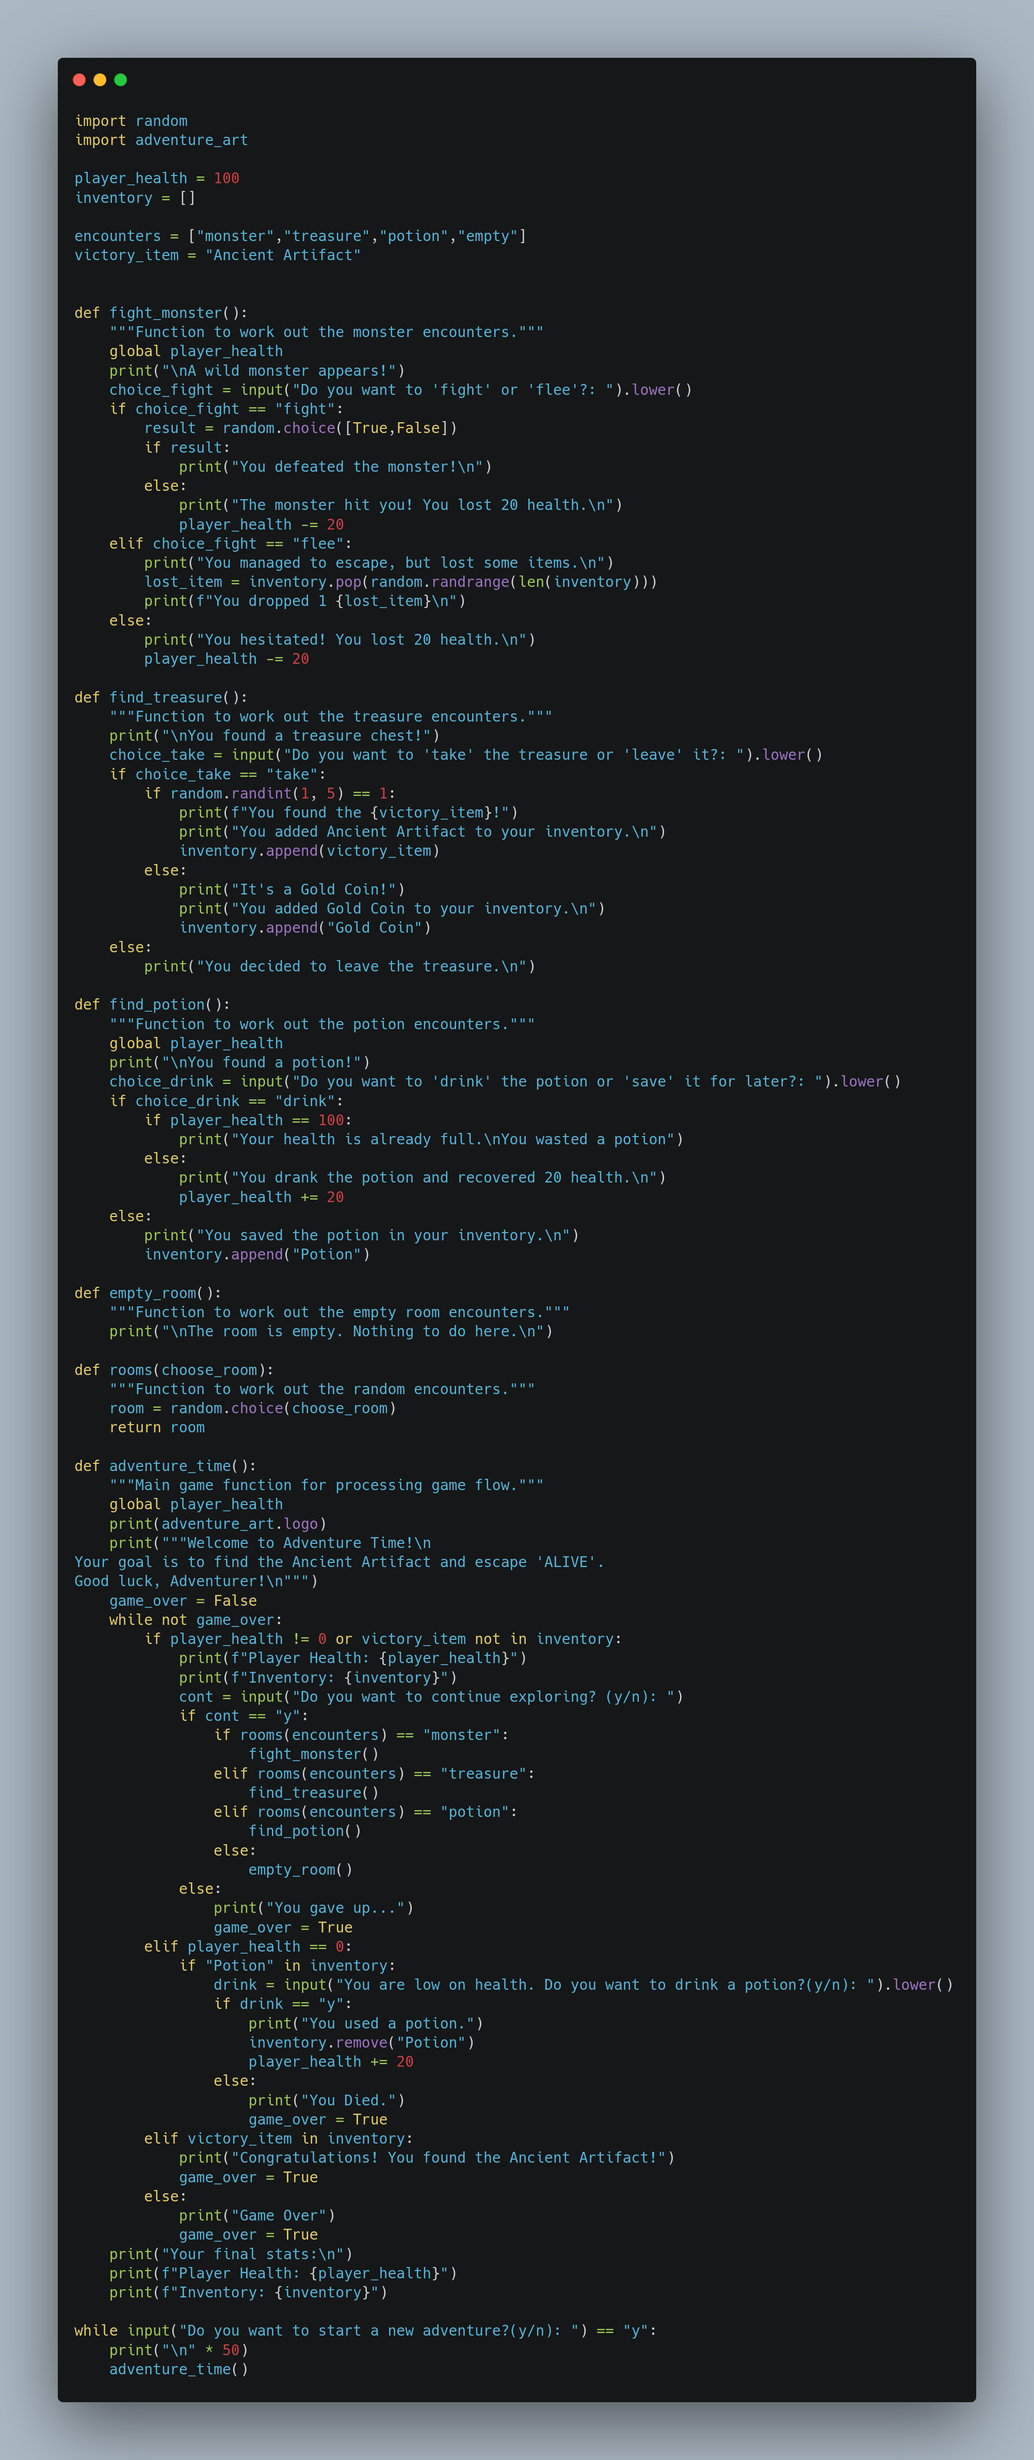
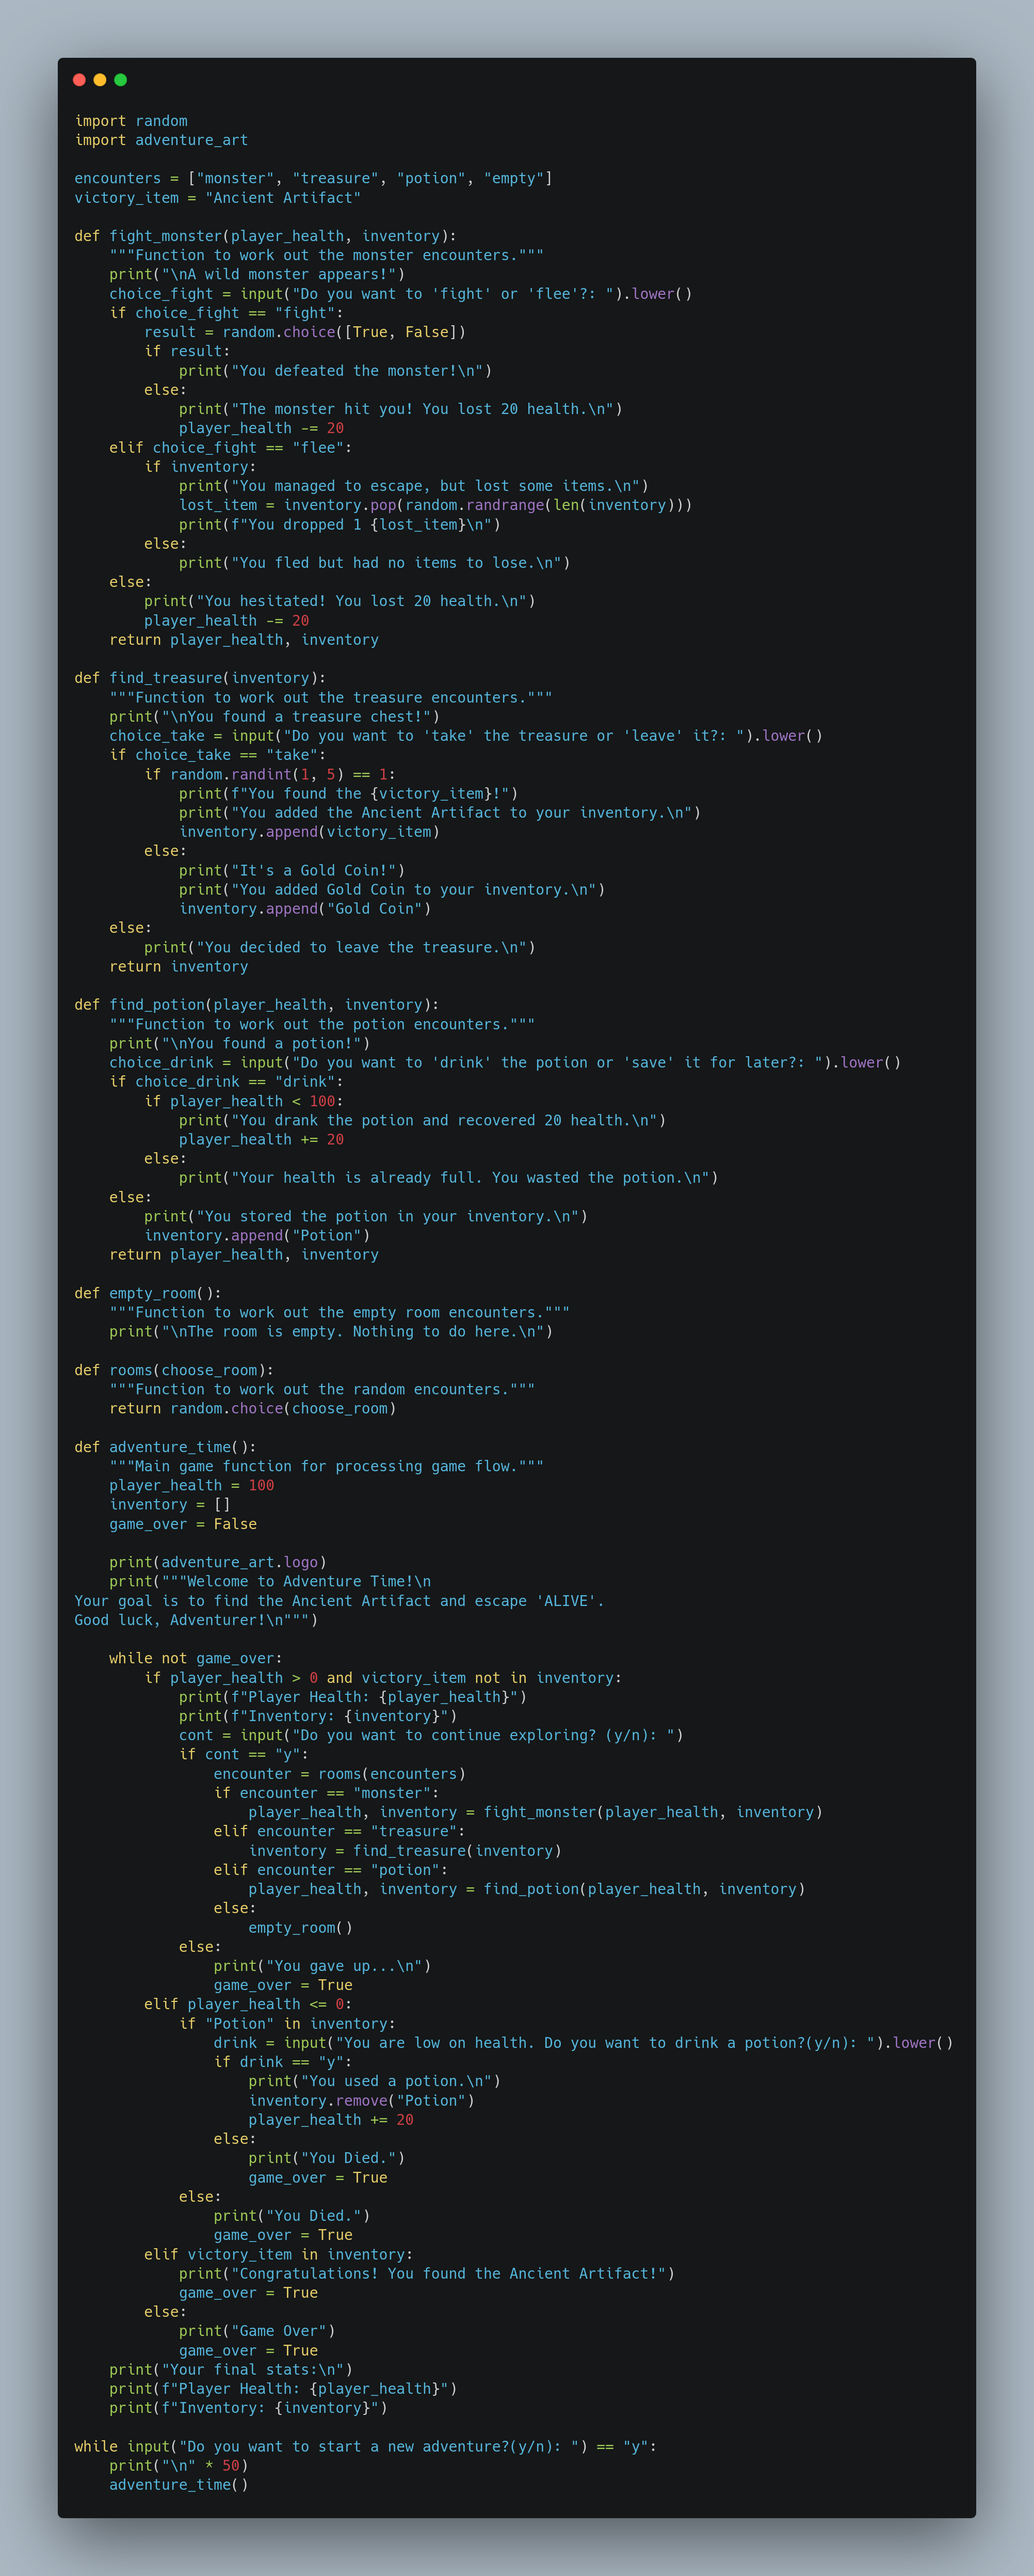
Progress Update...

Changed region(s): [[0.0619, 0.0311, 0.6497, 0.9627], [0.495, 0.3416, 0.5259, 0.3726]]

diff --git a/Projects/Day 11/11.1_Adventure_Project.py b/Projects/Day 11/11.1_Adventure_Project.py
@@ -1,41 +1,40 @@
 import random
 import adventure_art
 
-player_health = 100
-inventory = []
-
-encounters = ["monster","treasure","potion","empty"]
+encounters = ["monster", "treasure", "potion", "empty"]
 victory_item = "Ancient Artifact"
 
-
-def fight_monster():
+def fight_monster(player_health, inventory):
     """Function to work out the monster encounters."""
-    global player_health
     print("\nA wild monster appears!")
     choice_fight = input("Do you want to 'fight' or 'flee'?: ").lower()
     if choice_fight == "fight":
-        result = random.choice([True,False])
+        result = random.choice([True, False])
         if result:
             print("You defeated the monster!\n")
         else:
             print("The monster hit you! You lost 20 health.\n")
             player_health -= 20
     elif choice_fight == "flee":
-        print("You managed to escape, but lost some items.\n")
-        lost_item = inventory.pop(random.randrange(len(inventory)))
-        print(f"You dropped 1 {lost_item}\n")
+        if inventory:
+            print("You managed to escape, but lost some items.\n")
+            lost_item = inventory.pop(random.randrange(len(inventory)))
+            print(f"You dropped 1 {lost_item}\n")
+        else:
+            print("You fled but had no items to lose.\n")
     else:
         print("You hesitated! You lost 20 health.\n")
         player_health -= 20
+    return player_health, inventory
 
-def find_treasure():
+def find_treasure(inventory):
     """Function to work out the treasure encounters."""
     print("\nYou found a treasure chest!")
     choice_take = input("Do you want to 'take' the treasure or 'leave' it?: ").lower()
     if choice_take == "take":
         if random.randint(1, 5) == 1:
             print(f"You found the {victory_item}!")
-            print("You added Ancient Artifact to your inventory.\n")
+            print("You added the Ancient Artifact to your inventory.\n")
             inventory.append(victory_item)
         else:
             print("It's a Gold Coin!")
@@ -43,21 +42,22 @@ def find_treasure():
             inventory.append("Gold Coin")
     else:
         print("You decided to leave the treasure.\n")
+    return inventory
 
-def find_potion():
+def find_potion(player_health, inventory):
     """Function to work out the potion encounters."""
-    global player_health
     print("\nYou found a potion!")
     choice_drink = input("Do you want to 'drink' the potion or 'save' it for later?: ").lower()
     if choice_drink == "drink":
-        if player_health == 100:
-            print("Your health is already full.\nYou wasted a potion")
-        else:
+        if player_health < 100:
             print("You drank the potion and recovered 20 health.\n")
             player_health += 20
+        else:
+            print("Your health is already full. You wasted the potion.\n")
     else:
-        print("You saved the potion in your inventory.\n")
+        print("You stored the potion in your inventory.\n")
         inventory.append("Potion")
+    return player_health, inventory
 
 def empty_room():
     """Function to work out the empty room encounters."""
@@ -65,44 +65,50 @@ def empty_room():
 
 def rooms(choose_room):
     """Function to work out the random encounters."""
-    room = random.choice(choose_room)
-    return room
+    return random.choice(choose_room)
 
 def adventure_time():
     """Main game function for processing game flow."""
-    global player_health
+    player_health = 100
+    inventory = []
+    game_over = False
+
     print(adventure_art.logo)
     print("""Welcome to Adventure Time!\n
 Your goal is to find the Ancient Artifact and escape 'ALIVE'.
 Good luck, Adventurer!\n""")
-    game_over = False
+
     while not game_over:
-        if player_health != 0 or victory_item not in inventory:
+        if player_health > 0 and victory_item not in inventory:
             print(f"Player Health: {player_health}")
             print(f"Inventory: {inventory}")
             cont = input("Do you want to continue exploring? (y/n): ")
             if cont == "y":
-                if rooms(encounters) == "monster":
-                    fight_monster()
-                elif rooms(encounters) == "treasure":
-                    find_treasure()
-                elif rooms(encounters) == "potion":
-                    find_potion()
+                encounter = rooms(encounters)
+                if encounter == "monster":
+                    player_health, inventory = fight_monster(player_health, inventory)
+                elif encounter == "treasure":
+                    inventory = find_treasure(inventory)
+                elif encounter == "potion":
+                    player_health, inventory = find_potion(player_health, inventory)
                 else:
                     empty_room()
             else:
-                print("You gave up...")
+                print("You gave up...\n")
                 game_over = True
-        elif player_health == 0:
+        elif player_health <= 0:
             if "Potion" in inventory:
                 drink = input("You are low on health. Do you want to drink a potion?(y/n): ").lower()
                 if drink == "y":
-                    print("You used a potion.")
+                    print("You used a potion.\n")
                     inventory.remove("Potion")
                     player_health += 20
                 else:
                     print("You Died.")
                     game_over = True
+            else:
+                print("You Died.")
+                game_over = True
         elif victory_item in inventory:
             print("Congratulations! You found the Ancient Artifact!")
             game_over = True
